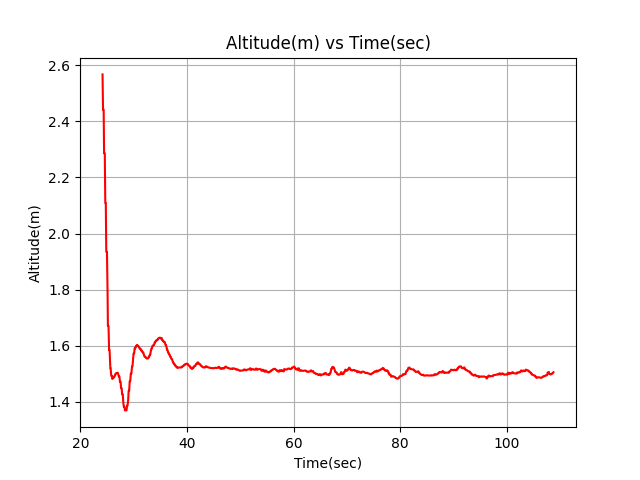
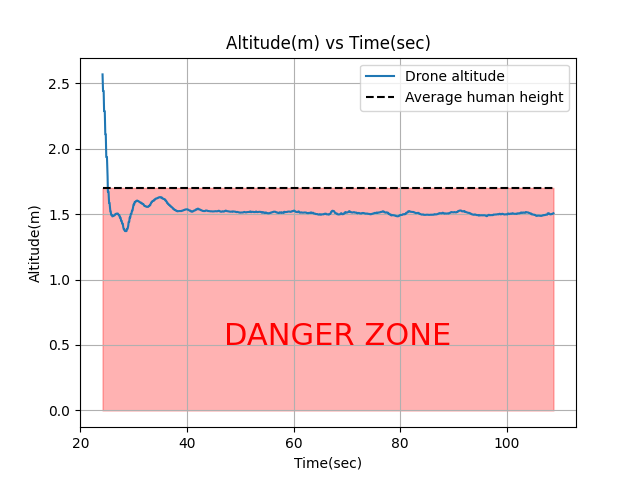
add human height considerations

diff --git a/plot_utils.py b/plot_utils.py
@@ -1,6 +1,8 @@
 import matplotlib.pyplot as plt
 import seaborn as sns
 
+MAX_AVG_HUMAN_HEIGHT = 1.7
+
 
 def save_boxplots(data, filename, title, show=False):
     if (filename[-4:] != ".png") & (filename[-4:] != ".jpg"):
@@ -21,10 +23,15 @@ def save_time_plots(data_y, data_x, filename, y_value, show=False):
         raise ValueError("Plots can only be saved as PNG or JPG")
 
     fig = plt.figure()
-    plt.plot(data_x, data_y, 'r-')
+    plt.plot(data_x, data_y, label="Drone altitude")
+    max_ht = [MAX_AVG_HUMAN_HEIGHT for i in range(len(data_x))]
+    plt.plot(data_x, max_ht, 'k--', label="Average human height")
+    plt.fill_between(data_x, y1=0, y2=MAX_AVG_HUMAN_HEIGHT, color='r', alpha=0.3)
+    plt.text(47, 0.5, "DANGER ZONE", color='r', fontsize=22)
     plt.xlabel("Time(sec)")
     plt.ylabel(y_value)
     plt.title(y_value + " vs Time(sec)")
+    plt.legend()
     plt.grid()
     fig.savefig(filename)
     if show:
